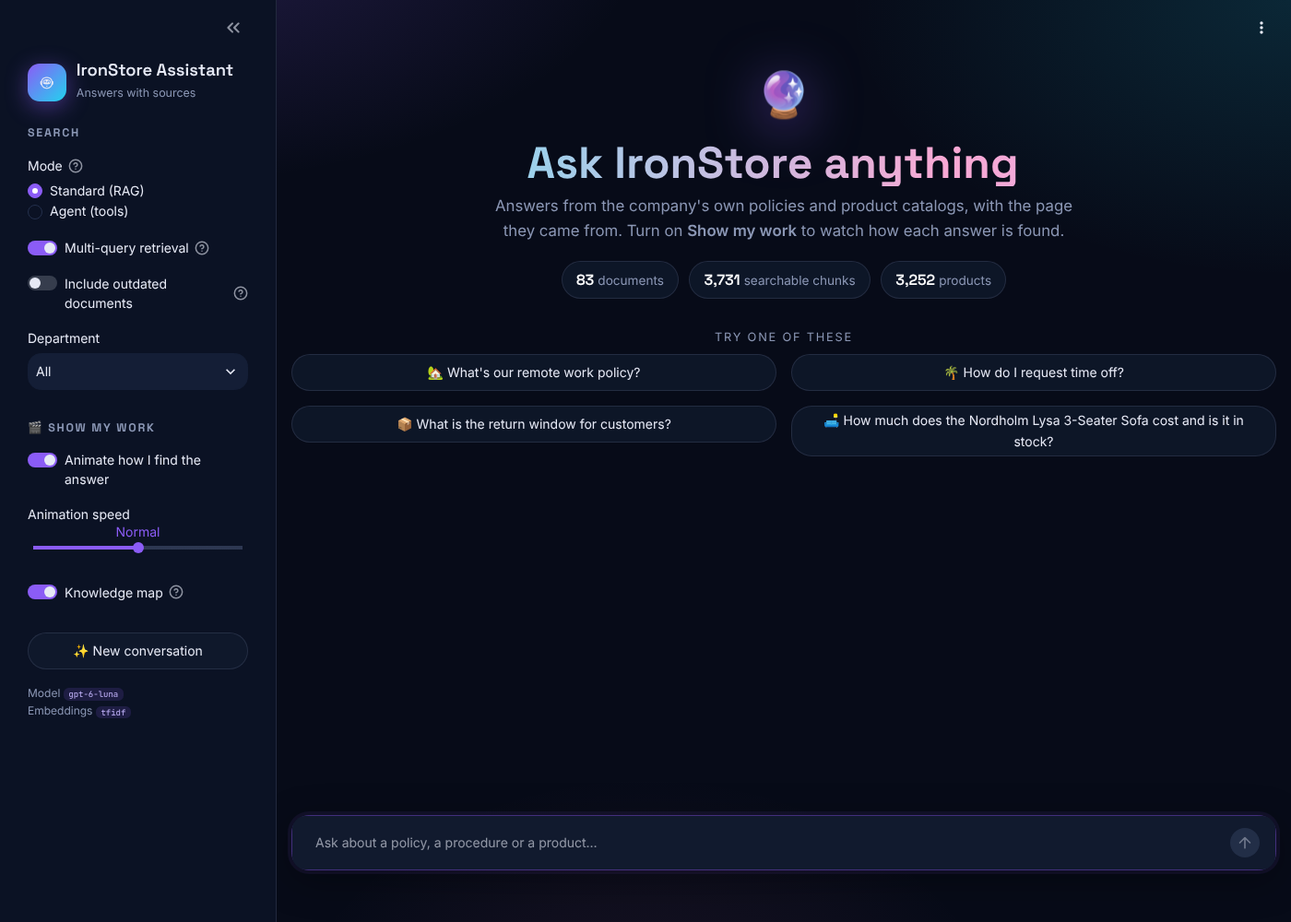
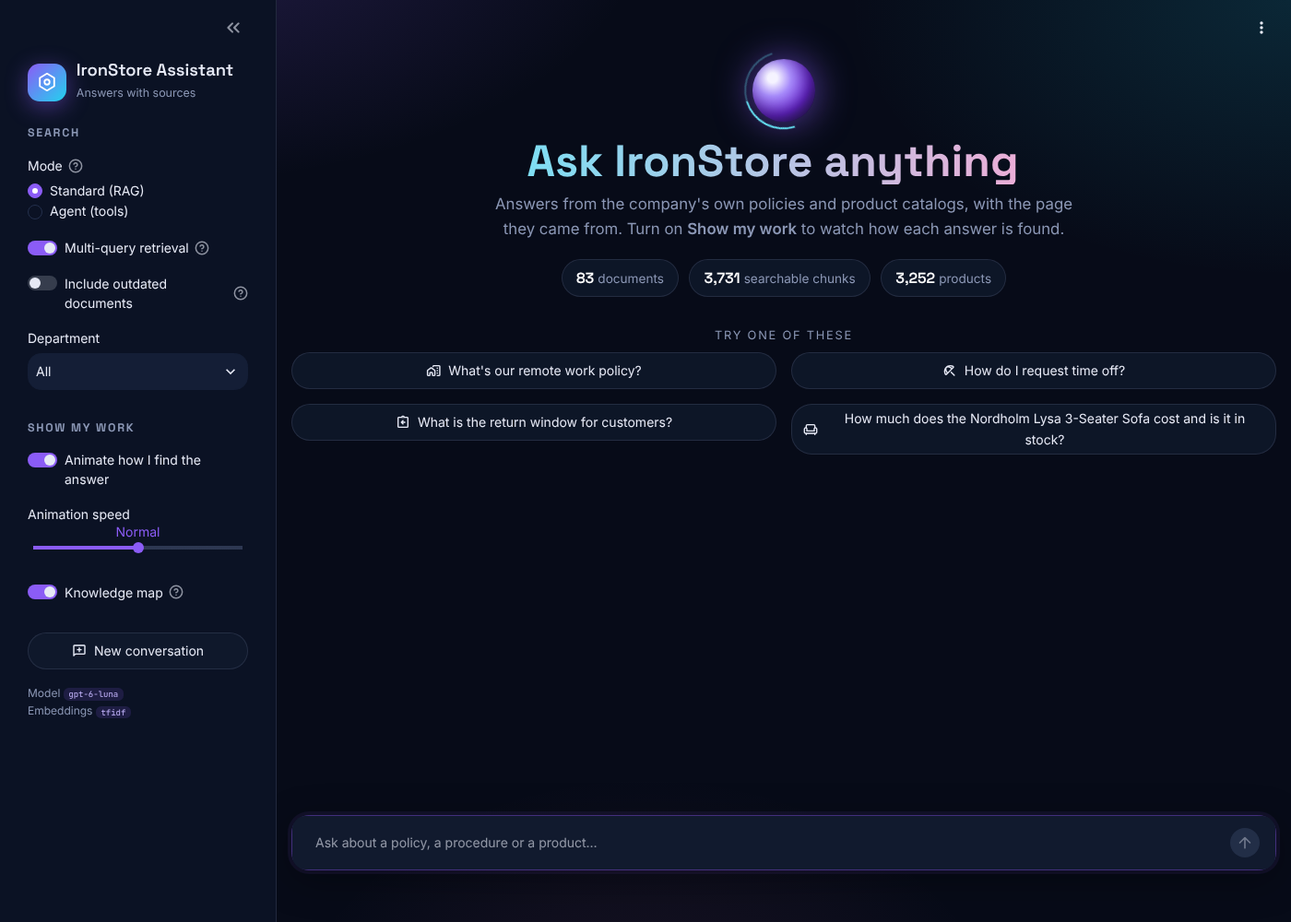
Remove all emojis from the app and docs
Status steps, badges and sidebar use plain text; buttons, avatars and
the page icon use Material icons; the logo is an inline SVG, the hero
orb is pure CSS, and the question on the knowledge map is a yellow Q
marker. Reports print yes/no and '(shared ID)' instead of emoji.

Claude-Session: https://claude.ai/code/session_01KqAWEF9bMqLgKeb2ZZpgnx

diff --git a/pipeline_view.py b/pipeline_view.py
@@ -22,7 +22,7 @@ AREA_COLORS = {
     "Customer support": "#fb7185", "Deliveries": "#fbbf24", "Finance": "#2dd4bf", "HR policies": "#a78bfa",
     "IT": "#60a5fa", "Legal Terms": "#f472b6", "Sales": "#4ade80", "Product catalog": "#94a3b8",
 }
-METHOD_BADGE = {"semantic": "🧭 meaning", "keyword": "🔤 keywords", "sku": "🏷 exact SKU"}
+METHOD_BADGE = {"semantic": "meaning", "keyword": "keywords", "sku": "exact SKU"}
 
 CSS = """
 <style>
@@ -128,7 +128,7 @@ def knowledge_map(retriever: Retriever, question: str, selected: list[int], cite
                     f'stroke="{ring[0]}" stroke-width="{ring[1] / zoom:.2f}"/><text x="{x:.1f}" y="{y + r * .38:.1f}" '
                     f'text-anchor="middle" font-size="{10 / zoom:.2f}" font-weight="700" fill="#070b18">{rank}</text></g>')
     legend = "".join(f'<span><i style="background:{c}"></i>{a}</span>' for a, c in AREA_COLORS.items())
-    star_size = 22 / zoom
+    q_r = 11 / zoom
     _embed_html(f"""
 <svg viewBox="0 0 {W} {H}" width="100%"
      style="overflow:hidden;border-radius:14px;border:1px solid rgba(139,151,181,.18);
@@ -164,11 +164,12 @@ def knowledge_map(retriever: Retriever, question: str, selected: list[int], cite
     {''.join(links)}
     {''.join(hits)}
     <circle class="halo" cx="{qx:.1f}" cy="{qy:.1f}" r="{40 / zoom:.1f}" fill="url(#halo)"/>
-    <g class="star"><text x="{qx:.1f}" y="{qy + star_size * .35:.1f}" text-anchor="middle"
-       font-size="{star_size:.1f}">⭐</text></g>
+    <g class="star"><circle cx="{qx:.1f}" cy="{qy:.1f}" r="{q_r:.2f}" fill="#fbbf24" stroke="#fff"
+       stroke-width="{2.4 / zoom:.2f}"/><text x="{qx:.1f}" y="{qy + q_r * .36:.1f}" text-anchor="middle"
+       font-size="{q_r:.2f}" font-weight="800" fill="#070b18">Q</text></g>
   </g>
 </svg>
-<div class="legend">{legend}<span>⭐ your question</span><span><i style="background:#34d399"></i>cited</span></div>
+<div class="legend">{legend}<span><i style="background:#fbbf24"></i>your question (Q)</span><span><i style="background:#34d399"></i>cited</span></div>
 <style>
   body {{ margin: 0; font-family: Inter, "Source Sans Pro", sans-serif; color: #8b97b5; background: transparent; }}
   .legend {{ display: flex; flex-wrap: wrap; gap: .3rem .9rem; font-size: 12px; margin-top: 8px; }}
@@ -211,7 +212,7 @@ def passage_cards(docs, trace: RetrievalTrace, cited_numbers: set[int] | None = 
         state = "" if cited_numbers is None else ("cited" if n in cited_numbers else "unused")
         badges = "".join(f'<span class="pv-badge">{METHOD_BADGE[m]}</span>' for m in sorted(found_by.get(cid, [])))
         if cited_numbers is not None:
-            badges += '<span class="pv-badge">✅ cited</span>' if n in cited_numbers else \
+            badges += '<span class="pv-badge">cited</span>' if n in cited_numbers else \
                 '<span class="pv-badge">not used</span>'
         snippet = html.escape(d.page_content.split("\n", 1)[-1][:220]) + "…"
         score = f" · fusion score {fused[cid]:.4f}" if cid in fused else ""
@@ -242,7 +243,7 @@ class PipelineView:
 
     def on_condense(self, d: dict) -> None:
         self.question = d["standalone"]
-        with st.status("🧠 Understanding your question", expanded=True) as s:
+        with st.status("Understanding your question", expanded=True) as s:
             if d["standalone"] != d["question"]:
                 st.markdown(f"Using the last {d['history_turns']} turn(s) of our chat, I rewrote your follow-up "
                             f"as a standalone question:")
@@ -250,11 +251,11 @@ class PipelineView:
             else:
                 st.markdown(f"> **{d['question']}**")
             _pause(self.speed, .4)
-            s.update(label="🧠 Understood your question", state="complete", expanded=False)
+            s.update(label="Understood your question", state="complete", expanded=False)
 
     def on_expand(self, d: dict) -> None:
         queries = d["queries"]
-        with st.status("✍ Rewording the question to search better", expanded=True) as s:
+        with st.status("Rewording the question to search better", expanded=True) as s:
             st.caption("Employees and policies rarely use the same words, so I search with several versions "
                        "(multi-query).")
             slot = st.empty()
@@ -263,12 +264,12 @@ class PipelineView:
                 shown.append(f'<span class="pv-query">{html.escape(q)}</span>')
                 slot.markdown(CSS + "".join(shown), unsafe_allow_html=True)
                 _pause(self.speed, .35)
-            s.update(label=f"✍ Searching with {len(queries)} versions of the question", state="complete",
+            s.update(label=f"Searching with {len(queries)} versions of the question", state="complete",
                      expanded=False)
 
     def on_tool(self, d: dict) -> None:
         if self._tools is None:
-            self._tools = st.status("🛠 The agent is choosing tools", expanded=True)
+            self._tools = st.status("The agent is choosing tools", expanded=True)
         with self._tools:
             st.markdown(f"**{d['name']}**(`{', '.join(f'{k}={v!r}' for k, v in d['args'].items())}`)")
             st.caption(d["result"][:300] + ("…" if len(d["result"]) > 300 else ""))
@@ -277,13 +278,13 @@ class PipelineView:
     def on_retrieve(self, d: dict) -> None:
         self.docs, self.trace = d["docs"], d["trace"]
         if self._tools is not None:
-            self._tools.update(label="🛠 The agent gathered its evidence", state="complete", expanded=False)
+            self._tools.update(label="The agent gathered its evidence", state="complete", expanded=False)
         n_chunks = len(self.retriever.docs)
-        with st.status(f"🔎 Searching {n_chunks:,} chunks", expanded=True) as s:
+        with st.status(f"Searching {n_chunks:,} chunks", expanded=True) as s:
             hits = self.trace.hits
             if hits and any(h.method in ("semantic", "keyword") for h in hits):
-                st.caption("Two searches per query: **🧭 meaning** (embeddings in FAISS) finds paraphrases, "
-                           "**🔤 keywords** (TF-IDF) finds exact words like *30 days* or a product name.")
+                st.caption("Two searches per query: **meaning** (embeddings in FAISS) finds paraphrases, "
+                           "**keywords** (TF-IDF) finds exact words like *30 days* or a product name.")
                 first_q = self.trace.queries[0]
                 cols = st.columns(2)
                 for col, method in zip(cols, ("semantic", "keyword")):
@@ -296,12 +297,12 @@ class PipelineView:
                                     unsafe_allow_html=True)
                     _pause(self.speed, .5)
                 if self.trace.excluded_outdated:
-                    st.caption("🗄 The outdated 2021 catalog was filtered out.")
-            s.update(label=f"🔎 Searched {n_chunks:,} chunks with {len(self.trace.queries)} queries",
+                    st.caption("The outdated 2021 catalog was filtered out.")
+            s.update(label=f"Searched {n_chunks:,} chunks with {len(self.trace.queries)} queries",
                      state="complete", expanded=False)
 
         if self.trace.fused:
-            with st.status("🏆 Merging the results (rank fusion)", expanded=True) as s:
+            with st.status("Merging the results (rank fusion)", expanded=True) as s:
                 st.caption("Each search votes for its results: 1/(60 + rank) points per vote. Chunks found by "
                            "several queries and by both methods win. Max 3 chunks per document, for variety.")
                 chosen = set(self.trace.selected)
@@ -314,26 +315,26 @@ class PipelineView:
                     rows.append((_doc_label(doc) + tag, score, _color(doc) if cid in chosen else "#334155"))
                 st.markdown(score_bars(rows, top[0][1]), unsafe_allow_html=True)
                 _pause(self.speed, .9)
-                s.update(label=f"🏆 Picked the {len(self.docs)} best passages", state="complete", expanded=False)
+                s.update(label=f"Picked the {len(self.docs)} best passages", state="complete", expanded=False)
 
         if self.show_map and self.trace.selected:
-            with st.status("🗺 Where your question lands", expanded=True) as s:
+            with st.status("Where your question lands", expanded=True) as s:
                 st.caption("Every dot is a chunk, placed by its embedding (PCA to 2D). Close dots talk about "
-                           "similar things. The ⭐ is your question; the numbers are the passages I picked.")
+                           "similar things. The yellow Q is your question; the numbers are the passages I picked.")
                 self._map_slot = st.empty()
                 with self._map_slot.container():
                     knowledge_map(self.retriever, self.question, self.trace.selected)
                 _pause(self.speed, 3.5)
-                s.update(label="🗺 Your question on the knowledge map", state="complete", expanded=True)
+                s.update(label="Your question on the knowledge map", state="complete", expanded=True)
 
-        with st.status(f"📚 Reading {len(self.docs)} passages", expanded=True) as s:
+        with st.status(f"Reading {len(self.docs)} passages", expanded=True) as s:
             st.markdown(passage_cards(self.docs, self.trace), unsafe_allow_html=True)
             _pause(self.speed, .8)
-            s.update(label=f"📚 Sent {len(self.docs)} numbered passages to the model", state="complete",
+            s.update(label=f"Sent {len(self.docs)} numbered passages to the model", state="complete",
                      expanded=False)
 
     def on_generate(self, d: dict) -> None:
-        self._gen_status = st.status("🤖 Writing an answer that cites its passages…", expanded=False)
+        self._gen_status = st.status("Writing an answer that cites its passages…", expanded=False)
 
     def on_validate(self, d: dict) -> None:
         resp = d["response"]
@@ -342,7 +343,7 @@ class PipelineView:
             st.markdown(f"The model cited **{len(cited)}** of {len(self.docs)} passages and rated its confidence "
                         f"**{resp.confidence}**. I checked every citation points to a real passage.")
             st.markdown(passage_cards(self.docs, self.trace, cited), unsafe_allow_html=True)
-        self._gen_status.update(label=f"✅ Answer written and citations checked ({len(cited)} cited)",
+        self._gen_status.update(label=f"Answer written and citations checked ({len(cited)} cited)",
                                 state="complete", expanded=False)
         if self._map_slot is not None and cited:
             cited_ids = {self.docs[n - 1].metadata.get("chunk_id") for n in cited}

diff --git a/ui.py b/ui.py
@@ -46,8 +46,14 @@ GLOBAL_CSS = """
 @keyframes float { 50% { transform: translateY(-6px); } }
 @keyframes rise { from { opacity: 0; transform: translateY(14px); } to { opacity: 1; transform: none; } }
 .hero { text-align: center; padding: 1.2rem 0 1.4rem; animation: rise .7s ease both; }
-.hero .orb { font-size: 3rem; display: inline-block; animation: float 3.5s ease-in-out infinite;
-             filter: drop-shadow(0 10px 30px rgba(139, 92, 246, .55)); }
+@keyframes spin { to { transform: rotate(360deg); } }
+.hero .orb { width: 4.2rem; height: 4.2rem; border-radius: 50%; display: inline-block; position: relative;
+             background: radial-gradient(circle at 32% 30%, #f5f3ff 0 8%, #a78bfa 30%, #6d28d9 62%, #1e1b4b 100%);
+             box-shadow: 0 0 40px rgba(139, 92, 246, .65), inset -6px -8px 18px rgba(0, 0, 0, .45);
+             animation: float 3.5s ease-in-out infinite; }
+.hero .orb::after { content: ""; position: absolute; inset: -9px; border-radius: 50%;
+                    border: 2px solid transparent; border-top-color: #67e8f9; border-right-color: rgba(103, 232, 249, .3);
+                    animation: spin 2.8s linear infinite; }
 .hero h1 { font-family: "Space Grotesk", sans-serif; font-size: 3rem !important; line-height: 1.05 !important;
            margin: .3rem 0 .5rem; padding: 0 !important;
            background: linear-gradient(90deg, #c4b5fd, #67e8f9, #f9a8d4, #c4b5fd); background-size: 200% auto;
@@ -109,6 +115,9 @@ GLOBAL_CSS = """
 </style>
 """
 
+LOGO = ('<svg viewBox="0 0 24 24" width="22" height="22" fill="none" stroke="#fff" stroke-width="2" '
+        'stroke-linecap="round" stroke-linejoin="round"><path d="M12 2l8.5 5v10L12 22l-8.5-5V7z"/>'
+        '<circle cx="12" cy="12" r="3"/></svg>')
 CONFIDENCE = {"high": ("High confidence", "#34d399", 3), "medium": ("Medium confidence", "#fbbf24", 2),
               "low": ("Low confidence", "#f87171", 1)}
 
@@ -118,7 +127,7 @@ def inject_css() -> None:
 
 
 def brand() -> None:
-    st.markdown('<div class="brand"><div class="logo">🤖</div><div><b>IronStore Assistant</b>'
+    st.markdown('<div class="brand"><div class="logo">' + LOGO + '</div><div><b>IronStore Assistant</b>'
                 '<span>Answers with sources</span></div></div>', unsafe_allow_html=True)
 
 
@@ -126,7 +135,7 @@ def hero(n_documents: int, n_chunks: int, n_products: int) -> None:
     stats = [(n_documents, "documents"), (n_chunks, "searchable chunks"), (n_products, "products")]
     chips = "".join(f'<span class="stat" style="animation-delay:{.15 + i * .1:.2f}s"><b>{v:,}</b>{label}</span>'
                     for i, (v, label) in enumerate(stats))
-    st.markdown(f"""<div class="hero"><div class="orb">🔮</div>
+    st.markdown(f"""<div class="hero"><div class="orb"></div>
 <h1>Ask IronStore anything</h1>
 <p>Answers from the company's own policies and product catalogs, with the page they came from.
 Turn on <b>Show my work</b> to watch how each answer is found.</p>
@@ -151,6 +160,6 @@ def source_cards(sources) -> str:
         cards.append(f'<details class="src" style="animation-delay:{i * .08:.2f}s"><summary>'
                      f'<span class="num">{s.number}</span>{html.escape(title)}'
                      f'<div class="meta">{html.escape(" · ".join(meta))}</div></summary>'
-                     f'<div class="meta">📄 {html.escape(s.source)}</div>'
+                     f'<div class="meta">File: {html.escape(s.source)}</div>'
                      f'<div class="snip">{html.escape(s.snippet)}</div></details>')
     return '<div class="src-title">Sources · click to read</div><div class="src-grid">' + "".join(cards) + "</div>"

diff --git a/app.py b/app.py
@@ -13,7 +13,7 @@ from pathlib import Path
 
 import streamlit as st
 
-st.set_page_config(page_title="IronStore Assistant", page_icon="🤖", layout="centered")
+st.set_page_config(page_title="IronStore Assistant", page_icon=":material/hub:", layout="centered")
 
 # Streamlit secrets -> environment variables, before the config module reads them
 try:
@@ -37,12 +37,12 @@ if not os.getenv("OPENAI_API_KEY"):
     st.stop()
 
 EXAMPLES = [
-    ("🏡", "What's our remote work policy?"),
-    ("🌴", "How do I request time off?"),
-    ("📦", "What is the return window for customers?"),
-    ("🛋", "How much does the Nordholm Lysa 3-Seater Sofa cost and is it in stock?"),
+    (":material/home_work:", "What's our remote work policy?"),
+    (":material/beach_access:", "How do I request time off?"),
+    (":material/assignment_return:", "What is the return window for customers?"),
+    (":material/chair:", "How much does the Nordholm Lysa 3-Seater Sofa cost and is it in stock?"),
 ]
-AVATARS = {"user": "🧑💼", "assistant": "🤖"}
+AVATARS = {"user": ":material/person:", "assistant": ":material/hub:"}
 
 
 def code_version() -> str:
@@ -73,14 +73,14 @@ with st.sidebar:
     areas = ["All", "Customer support", "Deliveries", "Finance", "HR policies", "IT", "Legal Terms", "Sales",
              "Product catalog"]
     area = st.selectbox("Department", areas)
-    st.subheader("🎬 Show my work")
+    st.subheader("Show my work")
     show_work = st.toggle("Animate how I find the answer", value=True)
     speed_label = st.select_slider("Animation speed", ["Fast", "Normal", "Slow"], value="Normal",
                                    disabled=not show_work)
     show_map = st.toggle("Knowledge map", value=True, disabled=not show_work,
                          help="Plot every chunk on a 2D map and show where your question lands.")
     st.write("")
-    if st.button("✨ New conversation", use_container_width=True):
+    if st.button("New conversation", icon=":material/add_comment:", use_container_width=True):
         st.session_state.messages = []
     manifest = config.INDEX_DIR / "manifest.json"
     embeddings = json.loads(manifest.read_text())["model"] if manifest.exists() else "no index yet"
@@ -104,11 +104,11 @@ def render_sources(msg: dict) -> None:
     if msg.get("confidence"):
         st.markdown(ui.confidence_badge(msg["confidence"]), unsafe_allow_html=True)
     for w in msg.get("warnings", []):
-        st.warning(w, icon="⚠")
+        st.warning(w, icon=":material/warning:")
     if msg.get("sources"):
         st.markdown(ui.source_cards(msg["sources"]), unsafe_allow_html=True)
     if msg.get("trace") is not None and msg.get("docs"):
-        with st.expander("🔍 How I found this"):
+        with st.expander("How I found this", icon=":material/manage_search:"):
             trace = msg["trace"]
             st.markdown("**Searched with:** " + " · ".join(f"`{q}`" for q in trace.queries))
             st.markdown(passage_cards(msg["docs"], trace, {s.number for s in msg["sources"]}),
@@ -124,7 +124,7 @@ if not st.session_state.messages and not question:
         st.markdown('<div class="try">Try one of these</div>', unsafe_allow_html=True)
         cols = st.columns(2)
         for i, (icon, ex) in enumerate(EXAMPLES):
-            if cols[i % 2].button(f"{icon}  {ex}", use_container_width=True, key=f"ex{i}"):
+            if cols[i % 2].button(ex, icon=icon, use_container_width=True, key=f"ex{i}"):
                 st.session_state.pending = ex
                 st.rerun()
 

diff --git a/ironstore_assistant/ingest.py b/ironstore_assistant/ingest.py
@@ -329,7 +329,7 @@ def quality_report(result: IngestResult) -> str:
     ]
     for s in sorted(policies, key=lambda s: (s.area, s.title)):
         m = s.meta
-        doc_id = m.get("doc_id", "—") + (" ⚠ shared" if m.get("id_conflict") else "")
+        doc_id = m.get("doc_id", "—") + (" (shared ID)" if m.get("id_conflict") else "")
         lines.append(f"| {s.area} | {s.title} | {doc_id} | {m.get('version', '—')} | "
                      f"{m.get('last_reviewed', '—')} | {m.get('effective_date', '—')} | {s.source} |")
     lines += ["", "## Issues found and how they are handled", ""]

diff --git a/ironstore_assistant/evaluate.py b/ironstore_assistant/evaluate.py
@@ -132,7 +132,7 @@ def to_markdown(rows: list[dict], title: str) -> str:
     out.append("| " + " | ".join(cols) + " |")
     out.append("|" + "---|" * len(cols))
     for r in rows:
-        out.append("| " + " | ".join(("✅" if v else "❌") if isinstance(v, bool) else
+        out.append("| " + " | ".join(("yes" if v else "no") if isinstance(v, bool) else
                                      (f"{v:.0%}" if isinstance(v, float) and k == "recall" else str(v))
                                      for k, v in ((c, r[c]) for c in cols)) + " |")
     if "answer" in rows[0]:

diff --git a/cli.py b/cli.py
@@ -32,7 +32,7 @@ def main() -> None:
         for s in resp.sources:
             print(f"  [{s.number}] {s.label()} — {s.source}")
         for w in resp.warnings:
-            print(f"  ⚠ {w}")
+            print(f"  Warning: {w}")
         print()
         history += [("user", q), ("assistant", resp.answer)]
 

diff --git a/docs/retrieval_eval_tfidf.md b/docs/retrieval_eval_tfidf.md
@@ -4,18 +4,18 @@
 
 | question | category | recall | top1 |
 |---|---|---|---|
-| How many days per week are hybrid employees expected to be in the office? | policy | 100% | ✅ |
-| What are the core hours when remote employees must be available? | policy | 100% | ✅ |
-| How do I request annual leave? | policy | 100% | ✅ |
-| Within how many days can a customer return unopened goods? | policy | 100% | ✅ |
-| What is the minimum password length? | policy | 100% | ✅ |
-| How quickly must a personal data breach be reported to the supervisory authority? | policy | 100% | ✅ |
-| What is the deadline for submitting an expense claim? | policy | 100% | ✅ |
-| Who needs to approve a contract worth €300,000? | policy | 100% | ✅ |
-| What commission accelerator applies above 150% of target? | policy | 100% | ✅ |
-| After how many minutes of inactivity must a laptop screen lock? | policy | 100% | ❌ |
-| How much does the Nordholm Lysa 3-Seater Sofa cost? | product | 100% | ✅ |
-| Is the CoreForge Half Rack 500 in stock, and in which warehouse? | product | 100% | ✅ |
-| What did the IronStore Compact Bluetooth Speaker cost in the old 2021 catalog? | trap: outdated asked | 100% | ✅ |
-| What do the documents with ID CS-POL-014 cover? | trap: shared ID | 100% | ✅ |
-| Which product has the SKU IS-BED-002? | trap: reused SKU | 100% | ✅ |
+| How many days per week are hybrid employees expected to be in the office? | policy | 100% | yes |
+| What are the core hours when remote employees must be available? | policy | 100% | yes |
+| How do I request annual leave? | policy | 100% | yes |
+| Within how many days can a customer return unopened goods? | policy | 100% | yes |
+| What is the minimum password length? | policy | 100% | yes |
+| How quickly must a personal data breach be reported to the supervisory authority? | policy | 100% | yes |
+| What is the deadline for submitting an expense claim? | policy | 100% | yes |
+| Who needs to approve a contract worth €300,000? | policy | 100% | yes |
+| What commission accelerator applies above 150% of target? | policy | 100% | yes |
+| After how many minutes of inactivity must a laptop screen lock? | policy | 100% | no |
+| How much does the Nordholm Lysa 3-Seater Sofa cost? | product | 100% | yes |
+| Is the CoreForge Half Rack 500 in stock, and in which warehouse? | product | 100% | yes |
+| What did the IronStore Compact Bluetooth Speaker cost in the old 2021 catalog? | trap: outdated asked | 100% | yes |
+| What do the documents with ID CS-POL-014 cover? | trap: shared ID | 100% | yes |
+| Which product has the SKU IS-BED-002? | trap: reused SKU | 100% | yes |

diff --git a/SOLUTION.md b/SOLUTION.md
@@ -109,21 +109,21 @@ ingestion step.
 - **Data-quality report** (`python -m ironstore_assistant.ingest`).
 - **Evaluation set** of 20 cases including every trap (`python -m ironstore_assistant.evaluate`).
 - **Department filter** and **include outdated** switch in the UI.
-- **🎬 Show my work**: an animated, step-by-step view of every answer (see below).
+- **Show my work**: an animated, step-by-step view of every answer (see below).
 - **Dark neon UI** (`ui.py` + `.streamlit/config.toml`): animated hero, glass chat bubbles, a confidence meter, clickable source cards and a glowing knowledge map.
 - **Offline mode** (TF-IDF embeddings) and **25 offline tests** with a fake LLM.
 
-## 🎬 Show my work
+## Show my work
 
 With *Animate how I find the answer* on (sidebar), each answer is built live in front of you:
 
-1. 🧠 **Understanding**: a follow-up is rewritten into a standalone question (strikethrough → new question).
-2. ✍ **Rewording**: the multi-query versions pop in one by one.
-3. 🔎 **Searching**: top hits from 🧭 meaning (FAISS) and 🔤 keywords (TF-IDF) side by side, with animated score bars.
-4. 🏆 **Rank fusion**: the leaderboard of merged results; chunks skipped for variety are greyed out.
-5. 🗺 **Knowledge map**: every chunk is a dot (PCA of its embedding). The ⭐ question drops onto the map, it zooms in, and lines shoot out to the picked passages. When the answer is ready the map replays with the **cited passages in green**.
-6. 📚 **Passages**: the numbered cards the model reads, each tagged with the search that found it.
-7. ✅ **Citations checked**: which passages were actually cited, then the answer types itself out.
+1. **Understanding**: a follow-up is rewritten into a standalone question (strikethrough → new question).
+2. **Rewording**: the multi-query versions pop in one by one.
+3. **Searching**: top hits from meaning (FAISS) and keywords (TF-IDF) side by side, with animated score bars.
+4. **Rank fusion**: the leaderboard of merged results; chunks skipped for variety are greyed out.
+5. **Knowledge map**: every chunk is a dot (PCA of its embedding). The question (a yellow Q) drops onto the map, it zooms in, and lines shoot out to the picked passages. When the answer is ready the map replays with the **cited passages in green**.
+6. **Passages**: the numbered cards the model reads, each tagged with the search that found it.
+7. **Citations checked**: which passages were actually cited, then the answer types itself out.
 
 ![Show my work](docs/images/show_my_work.png)
 

diff --git a/docs/data_quality_report.md b/docs/data_quality_report.md
@@ -9,9 +9,9 @@
 
 | Area | Title | ID | Version | Last reviewed | Effective | File |
 |---|---|---|---|---|---|---|
-| Customer support | Customer Support Escalation Procedures | CS-POL-014 ⚠ shared | 3.2 | August 2026 | — | IronStore_Customer_Support_Escalation_Procedures.pdf |
+| Customer support | Customer Support Escalation Procedures | CS-POL-014 (shared ID) | 3.2 | August 2026 | — | IronStore_Customer_Support_Escalation_Procedures.pdf |
 | Customer support | Customer Support Knowledge Base Style Guide | CS-KB-STD-004 | — | August 2026 | — | IronStore_Customer_Support_Knowledge_Base_Style_Guide.pdf |
-| Customer support | Refund & Complaint Handling Policy | CS-POL-014 ⚠ shared | 3.2 | August 2026 | — | IronStore_Refund_and_Complaint_Handling_Policy.pdf |
+| Customer support | Refund & Complaint Handling Policy | CS-POL-014 (shared ID) | 3.2 | August 2026 | — | IronStore_Refund_and_Complaint_Handling_Policy.pdf |
 | Deliveries | Returns & Reverse Logistics Procedure | DEL-RET-004 | 3.2 | August 2026 | — | IronStore_Returns_and_Reverse_Logistics_Procedure.pdf |
 | Deliveries | Shipping & Delivery SLA Policy | DEL-SLA-004 | — | August 2026 | 1 September 2026 | IronStore_Shipping_and_Delivery_SLA_Policy.pdf |
 | Deliveries | Warehouse Operations Manual | DEL-WH-001 | 3.2 | August 2026 | — | IronStore_Warehouse_Operations_Manual.pdf |
